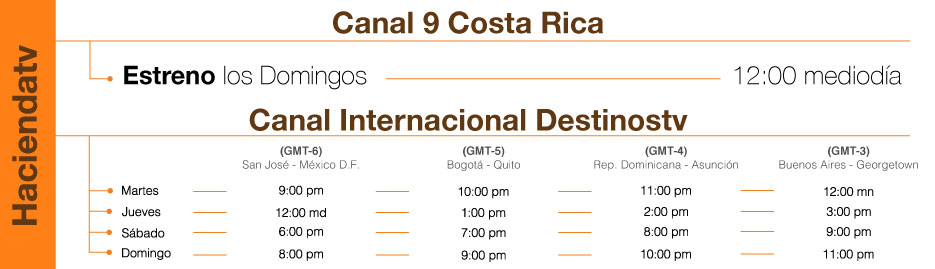
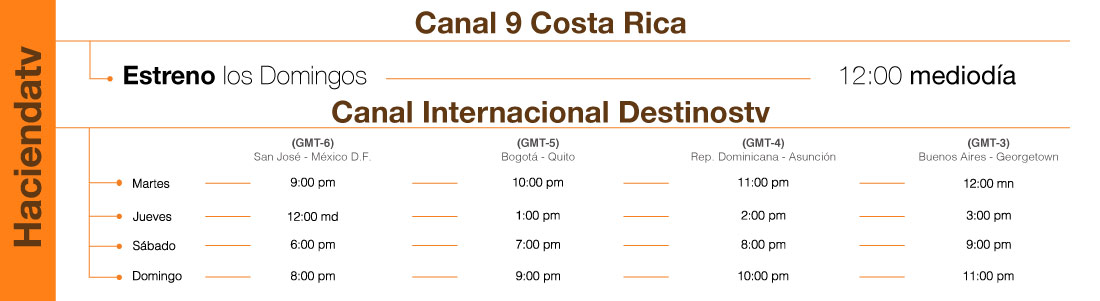
Cambios de slider y menú
Se cambiaron imágenes del slider y colores del menú. El respondiste no
está funcionando(prioridad).

diff --git a/index.html b/index.html
@@ -53,8 +53,9 @@
                      <li><a href="#">Sobre Haciendatv</a></li>
                      <li><a href="#">Capítulos</a></li>
                      <li><a href="#">Calendario</a></li>
+                     <li><a href="#">Vacaciones</a></li>
                      <li><a href="#">Clasificados</a></li>
-                     <li><a href="#">Contactenos</a></li>
+                     <!--<li><a href="#">Contactenos</a></li> -->
                  </ul>
              </div> 
         </nav>
@@ -74,36 +75,36 @@
 				</ol>
 				<div class="carousel-inner">
 					<div class="item active">
-						<img alt="" src="http://lorempixel.com/1600/500/sports/1">
+						<a href=""><img alt="" src="assets/img/capitulo49.jpg"></a>
 						<div class="carousel-caption">
 							<h4>
-								First Thumbnail label
+								Capitulo 49
 							</h4>
 							<p>
-								Cras justo odio, dapibus ac facilisis in, egestas eget quam. Donec id elit non mi porta gravida at eget metus. Nullam id dolor id nibh ultricies vehicula ut id elit.
+								Este Can es proveniente de las Islas Canarias, es un perro robusto, fuerte, con un carácter muy marcado.
 							</p>
 						</div>
 					</div>
 					<div class="item">
-						<img alt="" src="http://lorempixel.com/1600/500/sports/2">
+						<img alt="" src="assets/img/ceniprotem1.jpg">
 						<div class="carousel-caption">
-							<h4>
+							<!-- <h4>
 								Second Thumbnail label
 							</h4>
 							<p>
 								Cras justo odio, dapibus ac facilisis in, egestas eget quam. Donec id elit non mi porta gravida at eget metus. Nullam id dolor id nibh ultricies vehicula ut id elit.
-							</p>
+							</p> -->
 						</div>
 					</div>
 					<div class="item">
-						<img alt="" src="http://lorempixel.com/1600/500/sports/3">
+						<img alt="" src="assets/img/ceniprotem2.jpg">
 						<div class="carousel-caption">
 							<h4>
-								Third Thumbnail label
+								Anuncio
 							</h4>
-							<p>
+							<!-- <p>
 								Cras justo odio, dapibus ac facilisis in, egestas eget quam. Donec id elit non mi porta gravida at eget metus. Nullam id dolor id nibh ultricies vehicula ut id elit.
-							</p>
+							</p> -->
 						</div>
 					</div>
 				</div> <a class="left carousel-control" href="#carousel-662896" data-slide="prev"><span class="glyphicon glyphicon-chevron-left"></span></a> <a class="right carousel-control" href="#carousel-662896" data-slide="next"><span class="glyphicon glyphicon-chevron-right"></span></a>
@@ -136,12 +137,15 @@
 	</div>
 	<div class="row clearfix">
 		<div class="col-md-12 column">
-			<img alt="horario de haciendatv" src="assets/img/horario-nuevo.jpg">
+			<img class="img-horario" alt="horario de haciendatv" src="assets/img/horario-nuevo.jpg">
 		</div>
 	</div>
 	<div class="row footer clearfix">
 		<div class="col-md-4 column">
 			 <address> <strong>Haciendatv, 2014 -2015.</strong><br> San Rafael, Escazú<br> San José, CR<br> <abbr title="Phone">T:</abbr> (506) 2505-1500</address>
+			 <a href="mailto:comercial@haciendatv.com">
+			 	<h4>comercial@haciendatv.com</h4>
+			 </a>
 		</div>
 		<div class="col-md-4 column">
 			<ul class="mini-nav">

diff --git a/assets/css/style.css b/assets/css/style.css
@@ -1,14 +1,16 @@
-@import url(http://fonts.googleapis.com/css?family=Oswald:700|Khula);
+@import url(http://fonts.googleapis.com/css?family=Raleway:700|Muli);
 
 body{
-	font-family: 'Khula', sans-serif;
+	font-family: 'Muli', sans-serif;
 	background-color: #B77831;
 	background-image: url("../img/grande.jpg");
-	background-position: center;
 	background-repeat: repeat;
 }
 body > h1, h2, h3, h4{
-	font-family: 'Oswald', sans-serif;
+	font-family: 'Raleway', sans-serif;
+}
+h1, h2, h3{
+	color: #0089AB;
 }
 h1{
 	font-size: 2em;
@@ -25,23 +27,55 @@ h3{
 .container{
 	background-color: #fff;
 }
+.img-horario{
+	width: 100%;
+	text-align: center;
+	padding: 15px;
+}
 .bck-header{
-	font-family: 'Oswald', sans-serif;
-	height: 100%;
-	background-image: url("../img/bgHeaderHTV.jpg");
+	background-image: url("../img/bgi-menu.jpg");
 	background-repeat: no-repeat;
 	background-position: center;
-	padding: 0;
+	font-family: 'Raleway', sans-serif;
 }
-.main-menu{
-padding-top: 50ps
+.navbar-default {
+	background-color:#F47A20;
+	opacity: 0.7%;
+	margin-top: 30px;
+	border: none;
+}
+.navbar-default .navbar-nav > li > a {
+    color: #FFF;
+}
+.navbar-default .navbar-link:hover {
+  color: #00ff00;
 }
 .navbar-default .navbar-nav > li > a:hover, 
 .navbar-default .navbar-nav > li > a:focus {
-	color: #4c4c4c;
-	background-color: rgba(128,130,133,0.5);
+	color: #fff;
+	background-color: #A85225;
 }
 .col-md-4 > p , h1, h2, h3{
 	padding: 10px;
 	text-align: justify;
+}
+.body-txt > .btn, .btn-primary, img{
+}
+.footer{
+	color: #fff;
+	background-image: url("../img/bgi-menu.jpg");
+	text-align: center;
+	padding: 20px;
+}
+.footer li{
+	list-style: none;
+}
+.footer a{
+	color: #fff;
+	font-weight: bold;
+	text-decoration: none;
+}
+.footer a:hover,
+.footer a:focus{
+	color: #1e43a5;
 }

diff --git a/assets/css/bootstrap.css b/assets/css/bootstrap.css
@@ -4737,7 +4737,7 @@ textarea.input-group-sm > .input-group-btn > .btn {
   .navbar-default .navbar-nav .open .dropdown-menu > .active > a,
   .navbar-default .navbar-nav .open .dropdown-menu > .active > a:hover,
   .navbar-default .navbar-nav .open .dropdown-menu > .active > a:focus {
-    color: #555555;
+    color: #555;
     background-color: #e7e7e7;
   }
   .navbar-default .navbar-nav .open .dropdown-menu > .disabled > a,
